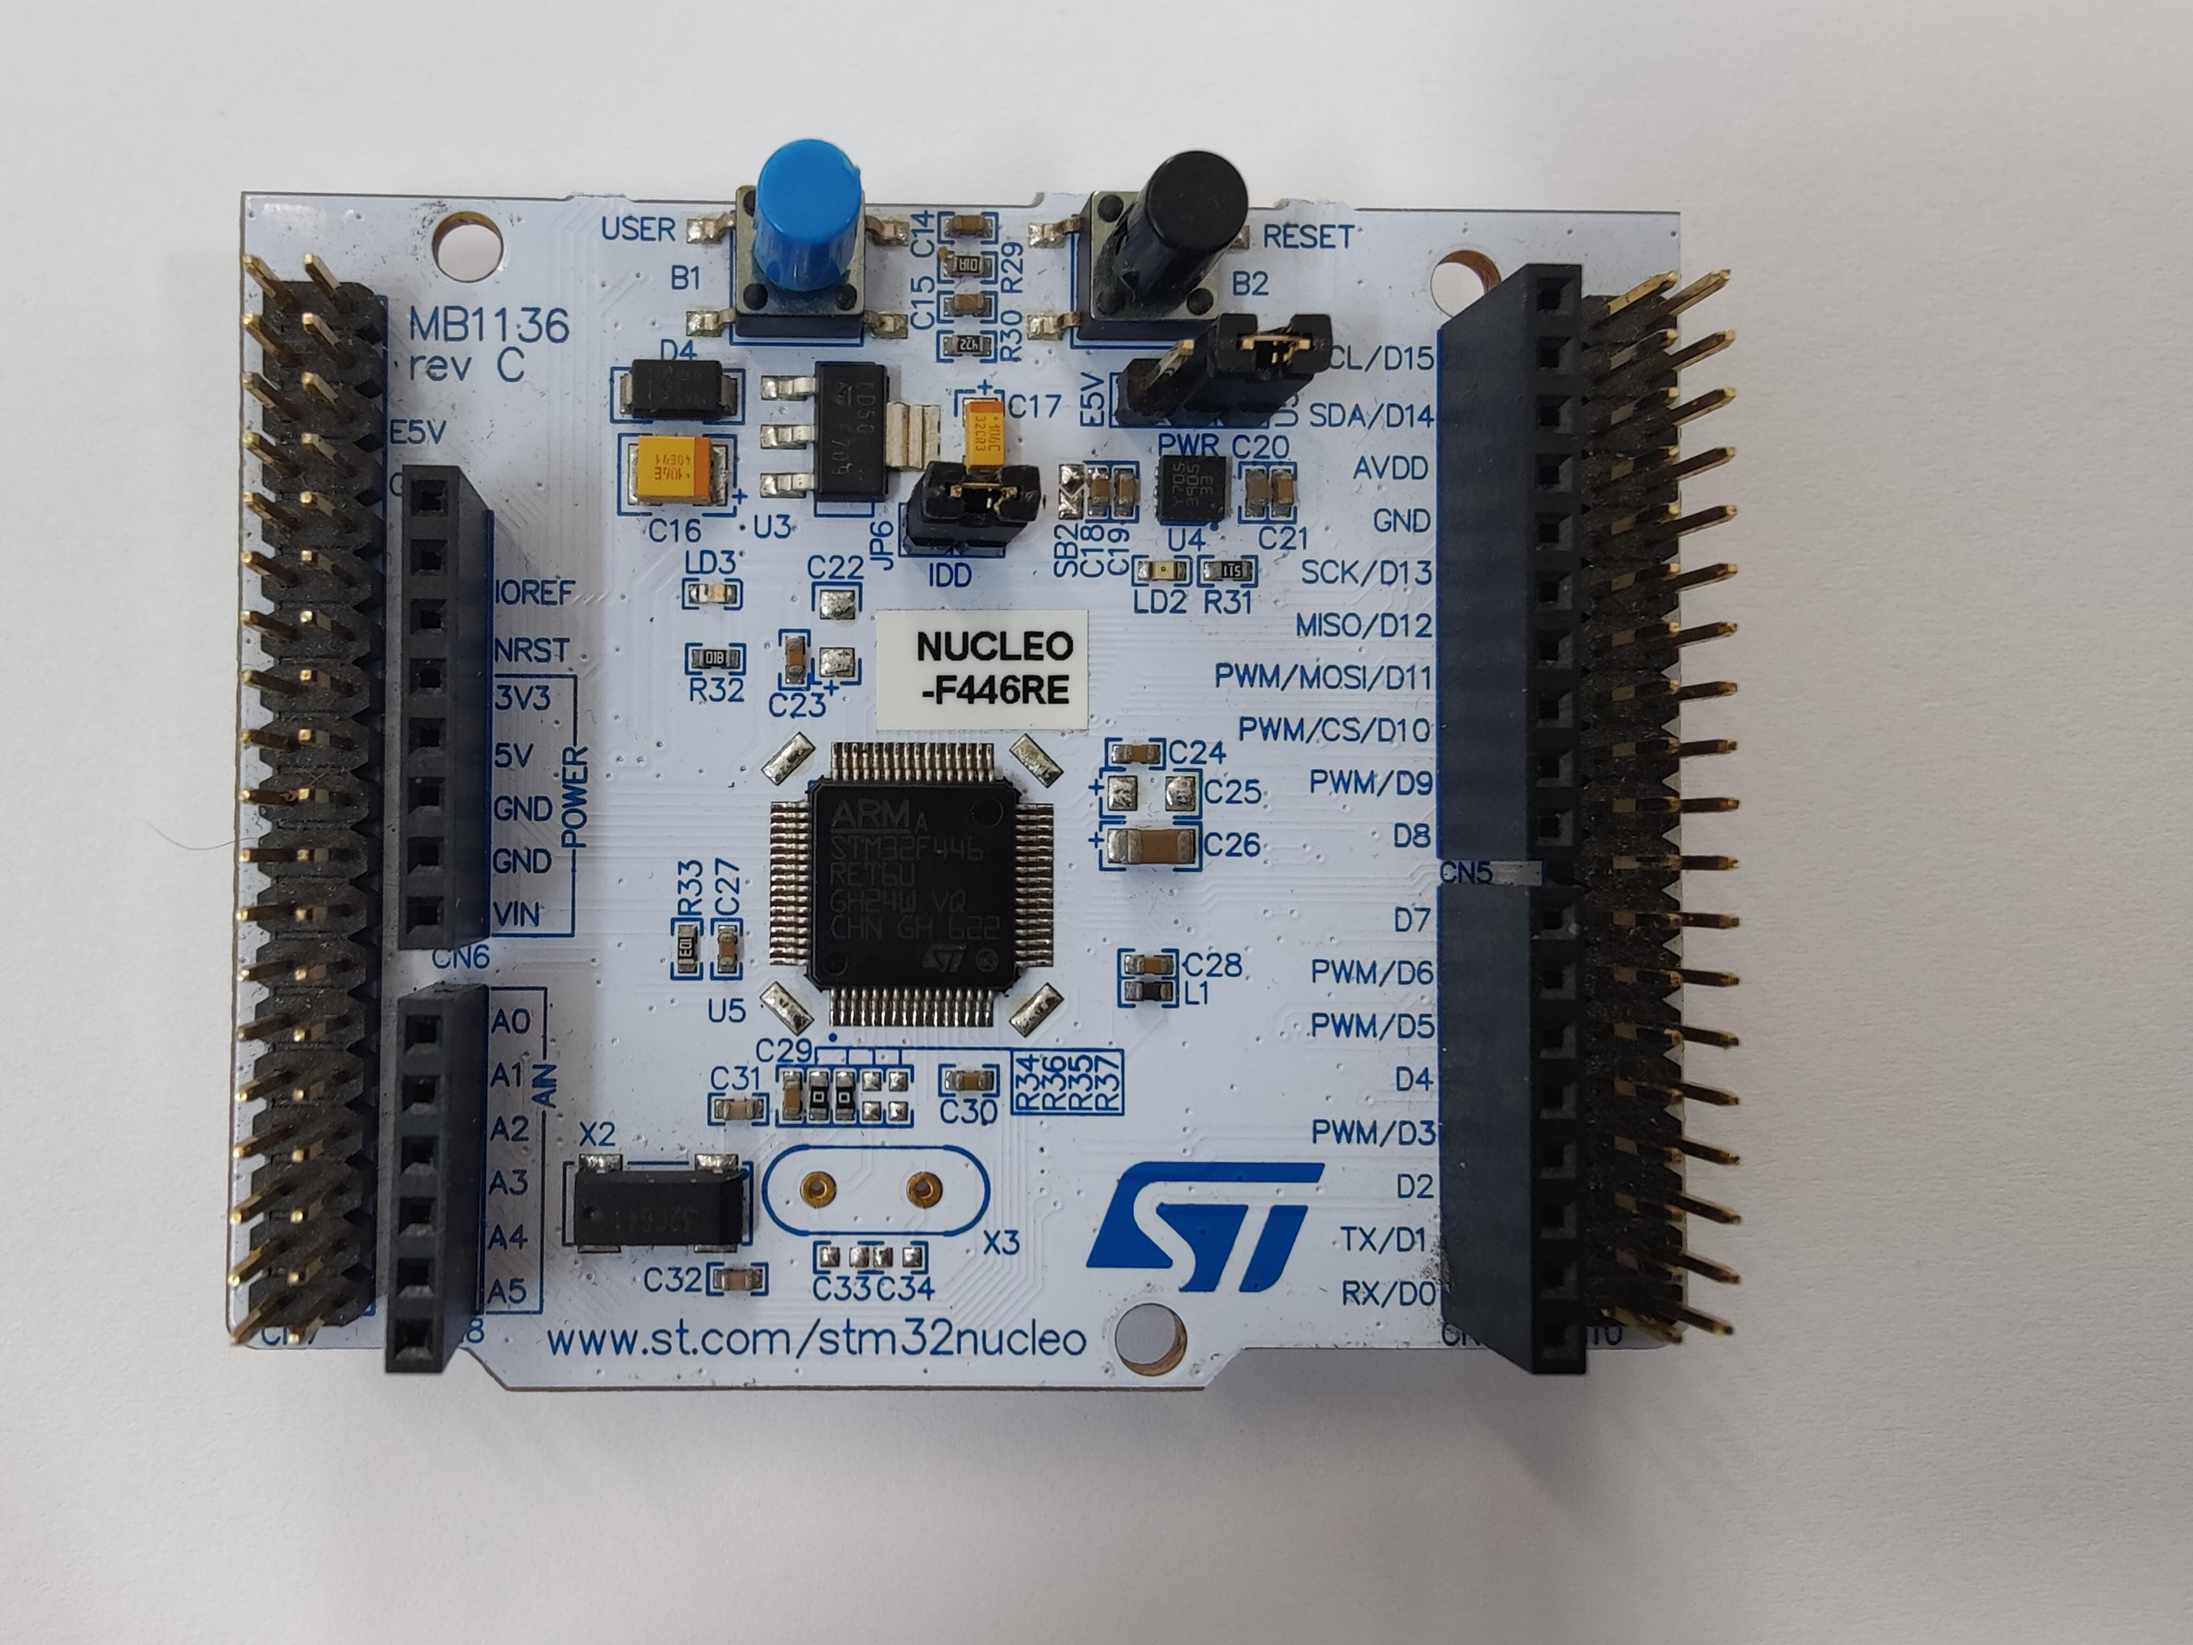
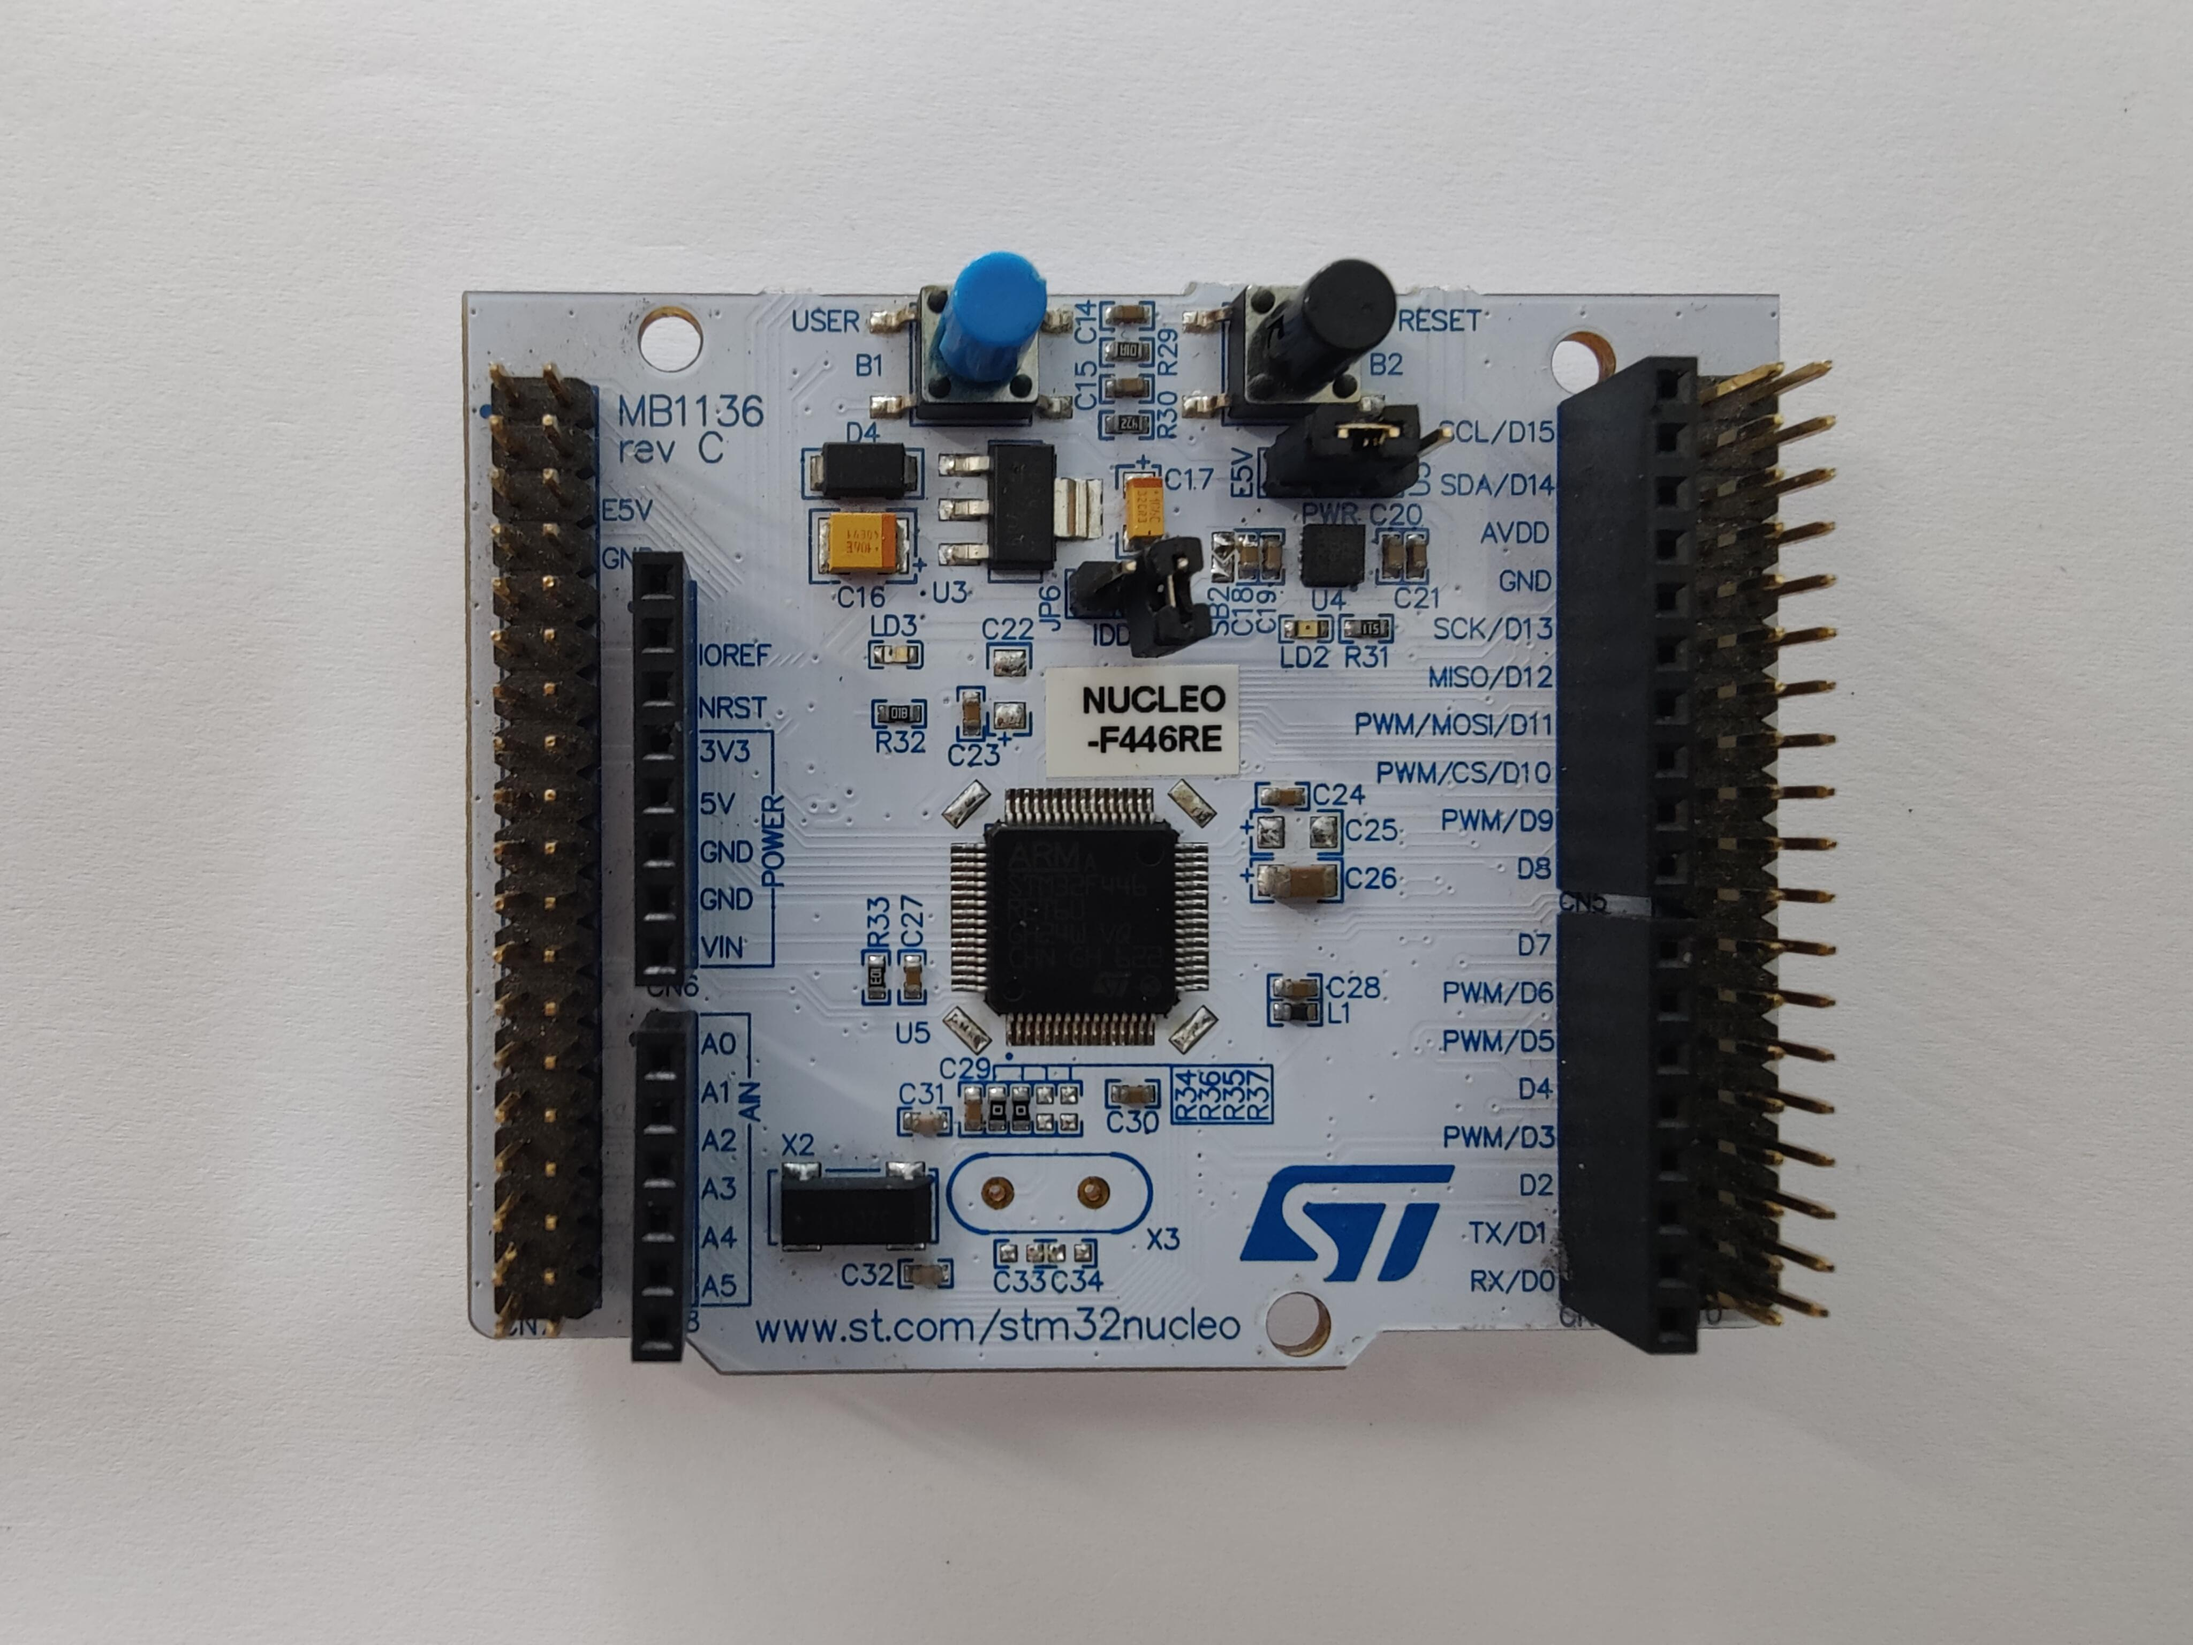
Update Nucleo hardware photograph and clarify retained regulator

diff --git a/README.md b/README.md
@@ -42,9 +42,9 @@ it at full resolution.
   <tr>
     <td align="center" width="50%">
       <strong>NUCLEO-F446RE</strong><br>
-      <a href="docs/images/hardware/nucleo-f446re.jpg"><img src="docs/images/hardware/nucleo-f446re.jpg" alt="NUCLEO-F446RE target board used in the benchmark" height="240"></a><br>
-      STM32F446 target board.<br>
-      RUN output: PC0.
+      <a href="docs/images/hardware/nucleo-f446re.jpg"><img src="docs/images/hardware/nucleo-f446re.jpg" alt="NUCLEO-F446RE target board with its voltage regulator retained and ST-LINK section detached" height="240"></a><br>
+      STM32F446 target board; LDO retained.<br>
+      JP6 is open during acquisition. RUN output: PC0.
     </td>
     <td align="center" width="50%">
       <strong>PPK2 acquisition setup</strong><br>
